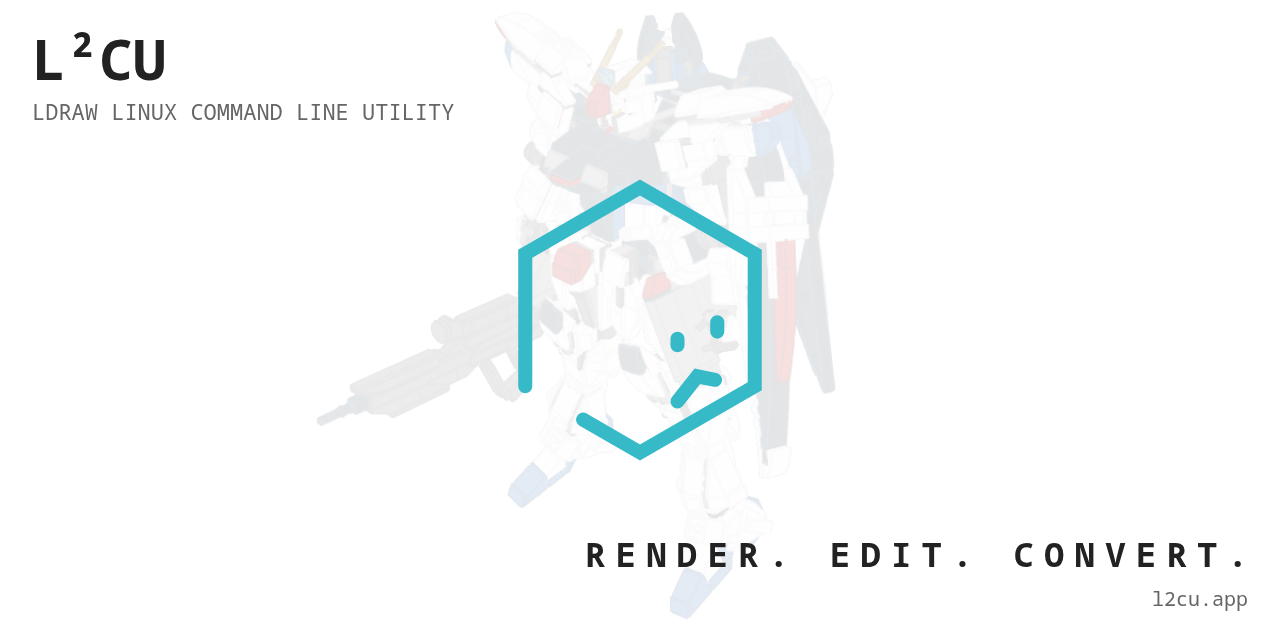
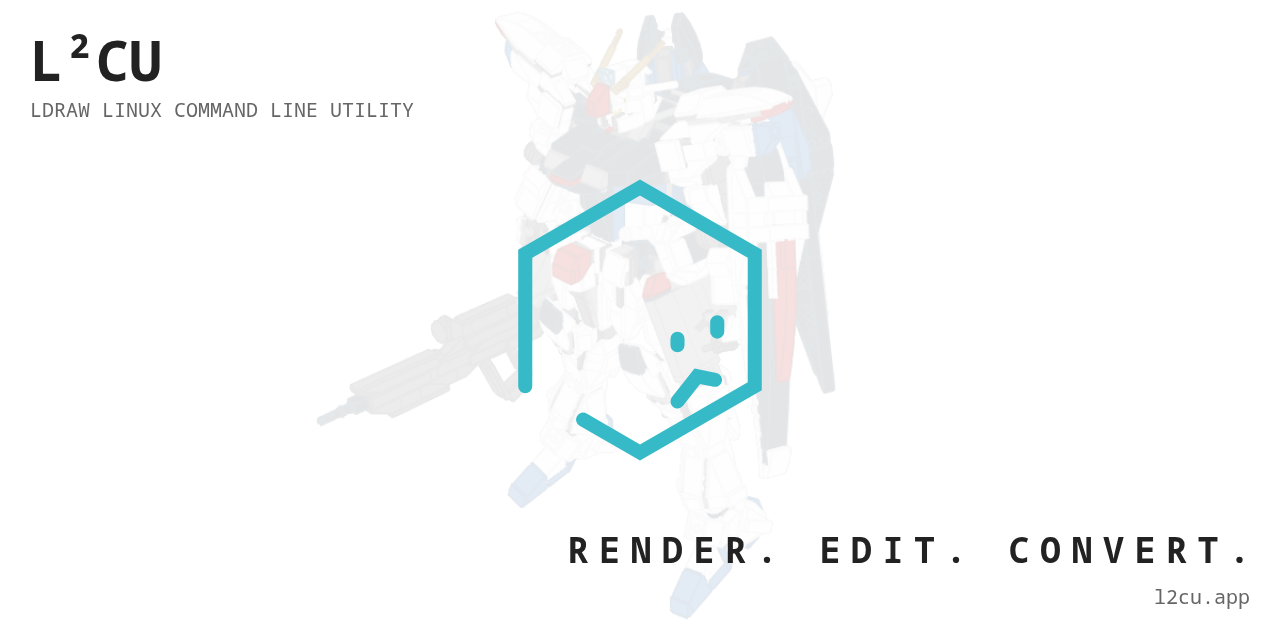
Code & Features Update

diff --git a/index.html b/index.html
@@ -66,7 +66,7 @@
 				color: #3d484b;
 				margin: 0;
 				padding: 0 0 100px 0;
-				font-size: 14px;
+				font-size: 15px;
 				line-height: 1.6;
 				overflow-x: hidden;
 			}
@@ -119,7 +119,7 @@
 				border-radius: 0;
 				overflow: visible;
 				color: #000000;
-				font-size: clamp(6px, 1vw, 12px);
+				font-size: clamp(5px, 1vw, 10px);
 				line-height: 1.3;
 				zoom: 2;
 			}
@@ -139,7 +139,7 @@
 			}
 
 			.head-landing h1 {
-				font-size: clamp(22px, 4vw, 40px);
+				font-size: clamp(20px, 4vw, 40px);
 			}
 
 			.head-landing p {
@@ -171,7 +171,6 @@
 				position: absolute;
 				right: 0;
 				bottom: 80px;
-				max-width: 640px;
 				padding: 10px;
 				text-align: right;
 				opacity: 0;
@@ -179,11 +178,13 @@
 			}
 
 			.foot-landing p {
-				margin: 0 0 15px 0;
+				max-width: 520px;
+				margin: 0 0 15px auto;
 			}
 
 			.foot-landing h2 {
-				font-size: clamp(20px, 3vw, 30px);
+				font-size: clamp(20px, 3.3vw, 30px);
+				white-space: nowrap;
 			}
 
 			.tagline {
@@ -235,12 +236,12 @@
 			}
 
 			.head-section h2 {
-				font-size: clamp(18px, 2.6vw, 26px);
+				font-size: clamp(20px, 2.5vw, 25px);
 			}
 
 			.section h3 {
 				margin: 30px 0 10px 0;
-				font-size: 16px;
+				font-size: 15px;
 			}
 
 			.lead {
@@ -260,7 +261,7 @@
 
 			.points li {
 				border-left: 5px solid #8f9fa3;
-				padding: 2.5px 0 2.5px 10px;
+				padding: 5px 0 5px 10px;
 			}
 
 			.points code {
@@ -438,7 +439,7 @@
 
 			figcaption {
 				padding: 5px 5px 0 5px;
-				font-size: 12px;
+				font-size: 10px;
 				text-align: center;
 			}
 
@@ -541,7 +542,7 @@
 				border-radius: 20px;
 				padding: 5px 10px;
 				margin: 5px 0;
-				font-size: 12px;
+				font-size: 10px;
 				white-space: nowrap;
 			}
 
@@ -554,7 +555,7 @@
 			}
 
 			pre.diagram {
-				font-size: 12px;
+				font-size: 10px;
 				line-height: 1.25;
 			}
 
@@ -618,7 +619,7 @@
 				border-radius: 20px;
 				background: #d0d7d8;
 				color: #000000;
-				font-size: 14px;
+				font-size: 15px;
 				outline: none;
 			}
 
@@ -684,11 +685,11 @@
 
 			.head-command h3 {
 				margin: 0;
-				font-size: 16px;
+				font-size: 15px;
 			}
 
 			.meta-command {
-				font-size: 12px;
+				font-size: 10px;
 				color: #7c8f94;
 			}
 
@@ -701,7 +702,7 @@
 				padding: 10px 15px;
 				border-radius: 10px;
 				background: #ffffff;
-				font-size: 12px;
+				font-size: 10px;
 				white-space: pre-wrap;
 			}
 
@@ -743,7 +744,7 @@
 				border-radius: 10px;
 				padding: 5px 10px;
 				margin: 0 0 5px 0;
-				font-size: 12px;
+				font-size: 10px;
 			}
 
 			.tag {
@@ -753,7 +754,7 @@
 				border-radius: 20px;
 				padding: 5px 10px;
 				margin: 5px 0;
-				font-size: 12px;
+				font-size: 10px;
 				white-space: nowrap;
 			}
 
@@ -767,7 +768,7 @@
 				background: #ffffff;
 				border-radius: 20px;
 				padding: 5px 10px;
-				font-size: 12px;
+				font-size: 10px;
 				color: #000000;
 			}
 
@@ -932,12 +933,12 @@
 
 			.button-navigation {
 				flex: none;
-				width: 80px;
-				padding: 10px 0 0 0;
+				min-width: 80px;
+				padding: 10px 10px 0 10px;
 				color: #3d484b;
 				text-align: center;
 				text-decoration: none;
-				font-size: 12px;
+				font-size: 15px;
 			}
 
 			.button-navigation .icon {
@@ -967,7 +968,7 @@
 				margin: 20px auto 0 auto;
 				padding: 20px 0;
 				border-top: 2px solid #c7cfd1;
-				font-size: 12px;
+				font-size: 10px;
 			}
 
 			.copyright p {
@@ -1037,7 +1038,7 @@
 				color: #000000;
 				border-radius: 20px;
 				padding: 15px 20px;
-				font-size: 12px;
+				font-size: 10px;
 				line-height: 1.4;
 				overflow-x: auto;
 				white-space: pre;
@@ -1069,7 +1070,7 @@
 				background: #d0d7d8;
 				border-radius: 15px;
 				padding: 10px;
-				font-size: 12px;
+				font-size: 10px;
 			}
 
 			.swatch span {
@@ -1099,7 +1100,7 @@
 
 			.command th, .command td {
 				padding: 5px 10px;
-				font-size: 12px;
+				font-size: 10px;
 			}
 
 			@media (max-width: 800px) {
